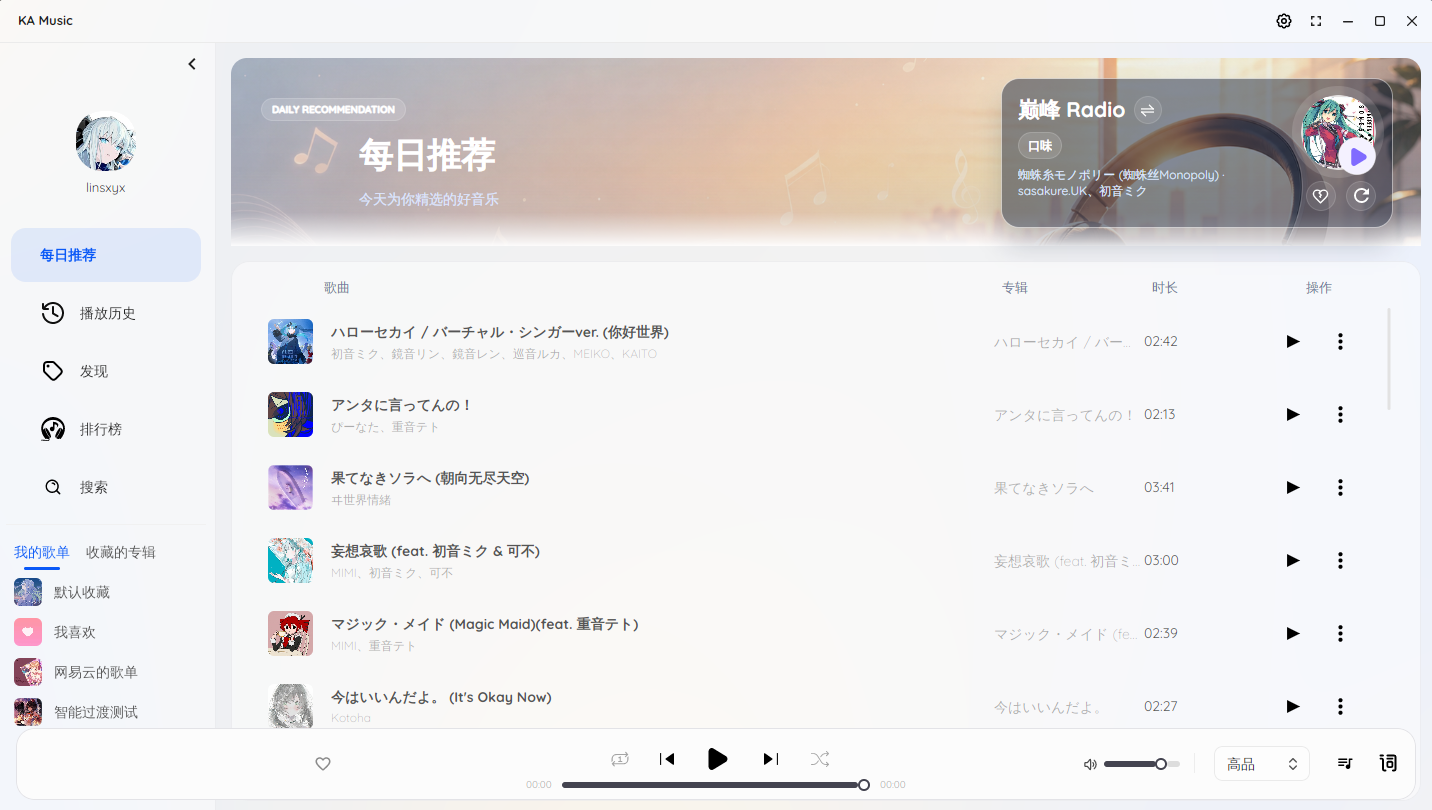
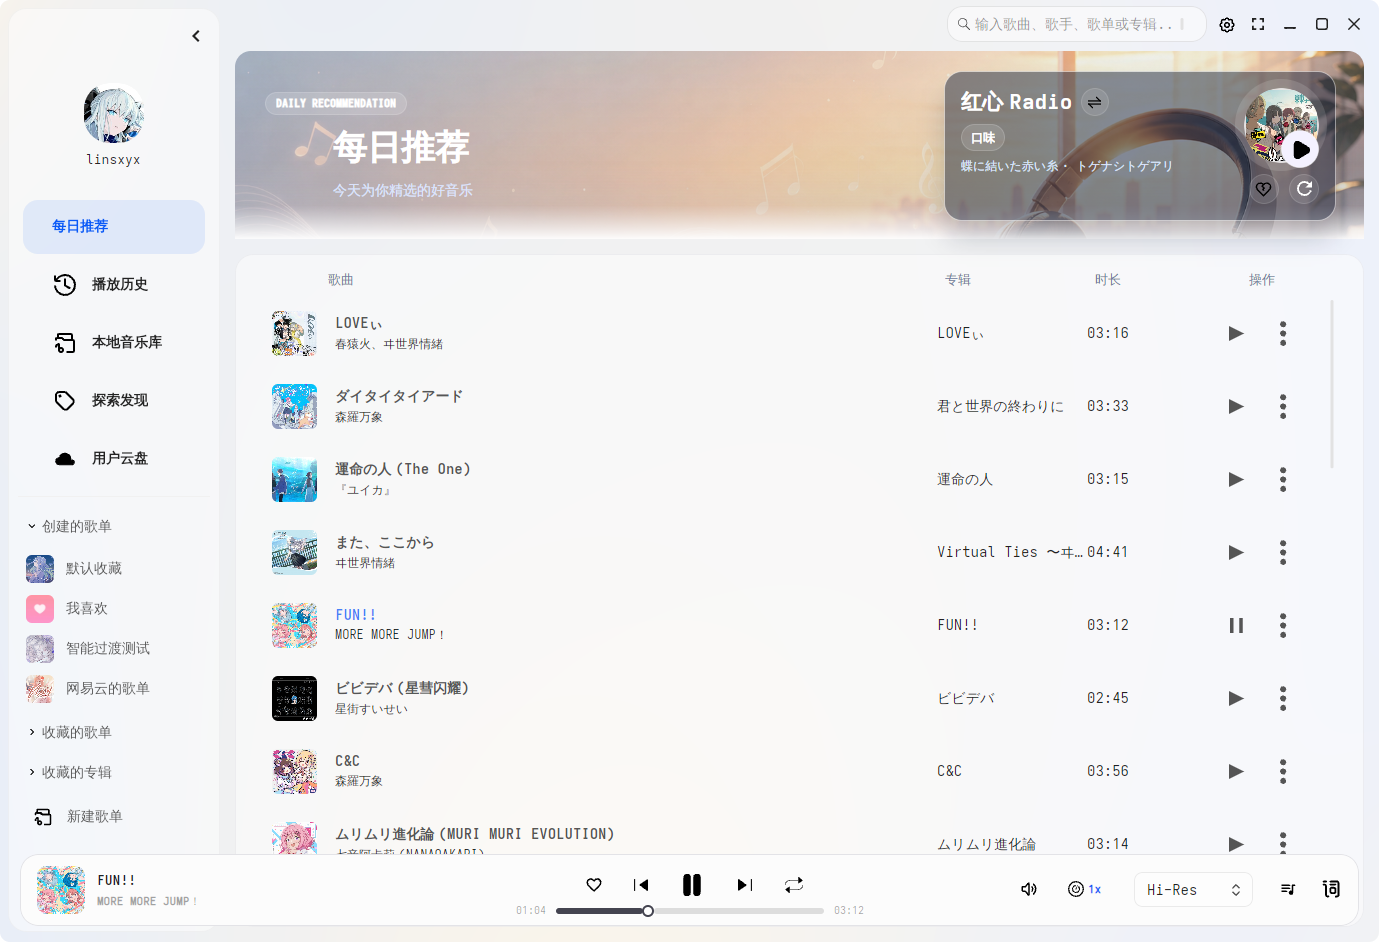
更新文档

diff --git a/README.md b/README.md
@@ -285,8 +285,8 @@ KugouMusic.NET
 
 <a href="https://www.star-history.com/?repos=Linsxyx%2FKugouMusic.NET&type=timeline&legend=top-left">
  <picture>
-   <source media="(prefers-color-scheme: dark)" srcset="https://api.star-history.com/chart?repos=Linsxyx/KugouMusic.NET&type=timeline&theme=dark&legend=top-left" />
-   <source media="(prefers-color-scheme: light)" srcset="https://api.star-history.com/chart?repos=Linsxyx/KugouMusic.NET&type=timeline&legend=top-left" />
-   <img alt="Star History Chart" src="https://api.star-history.com/chart?repos=Linsxyx/KugouMusic.NET&type=timeline&legend=top-left" />
+   <source media="(prefers-color-scheme: dark)" srcset="https://api.star-history.com/chart?repos=Linsxyx/KugouMusic.NET&type=timeline&theme=dark&legend=top-left&sealed_token=wzW4_hbpIKDoQdW7tn5bcNpH6c7DFxIYPqvGh2wibQkklM_uKiVmIdmh3NvI12WBJghhp-mskCsRaaDsIxRzwtZMEQnAtlp5BOhGfj0tb29oSa9jzx0ACg" />
+   <source media="(prefers-color-scheme: light)" srcset="https://api.star-history.com/chart?repos=Linsxyx/KugouMusic.NET&type=timeline&legend=top-left&sealed_token=wzW4_hbpIKDoQdW7tn5bcNpH6c7DFxIYPqvGh2wibQkklM_uKiVmIdmh3NvI12WBJghhp-mskCsRaaDsIxRzwtZMEQnAtlp5BOhGfj0tb29oSa9jzx0ACg" />
+   <img alt="Star History Chart" src="https://api.star-history.com/chart?repos=Linsxyx/KugouMusic.NET&type=timeline&legend=top-left&sealed_token=wzW4_hbpIKDoQdW7tn5bcNpH6c7DFxIYPqvGh2wibQkklM_uKiVmIdmh3NvI12WBJghhp-mskCsRaaDsIxRzwtZMEQnAtlp5BOhGfj0tb29oSa9jzx0ACg" />
  </picture>
 </a>
